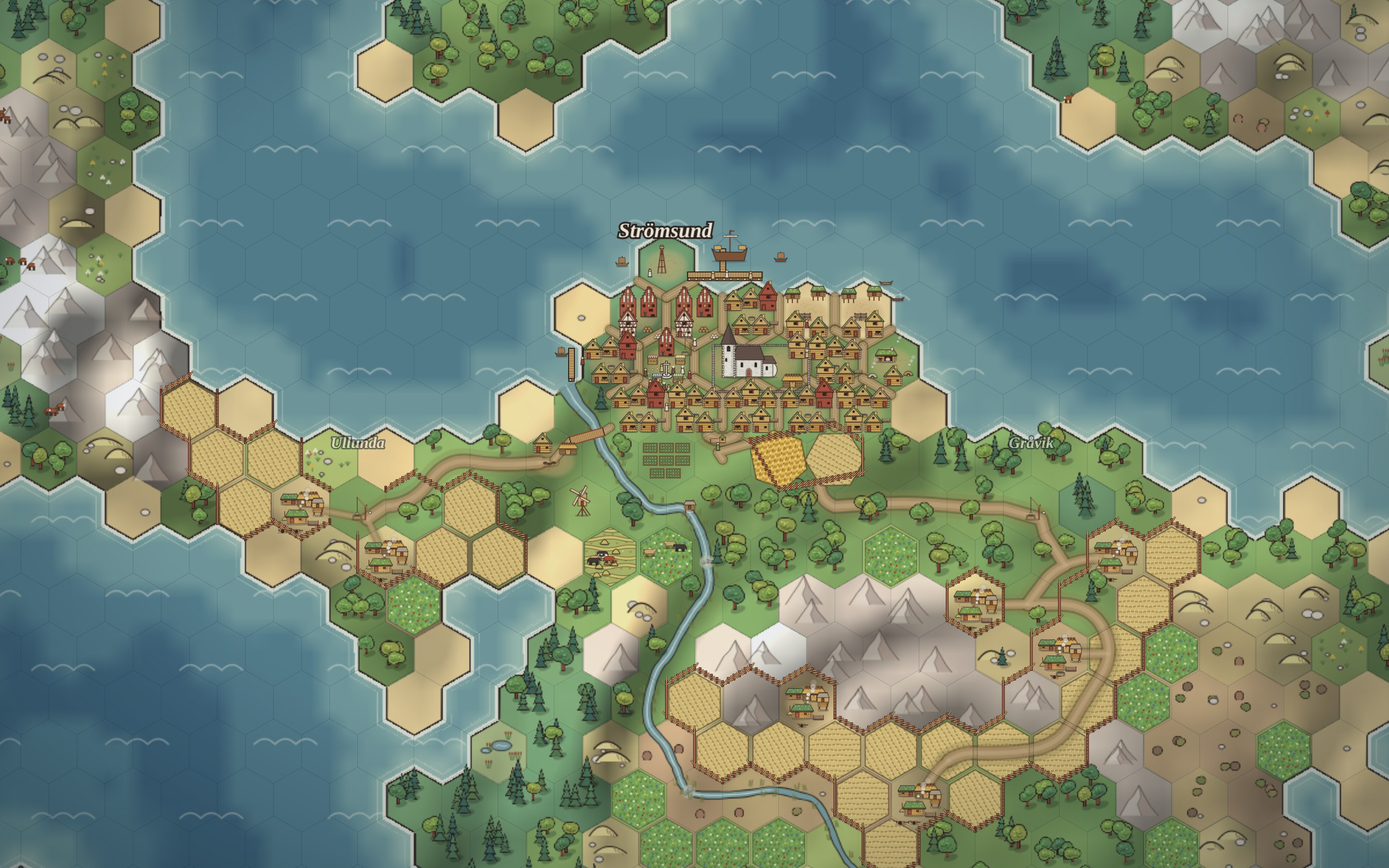
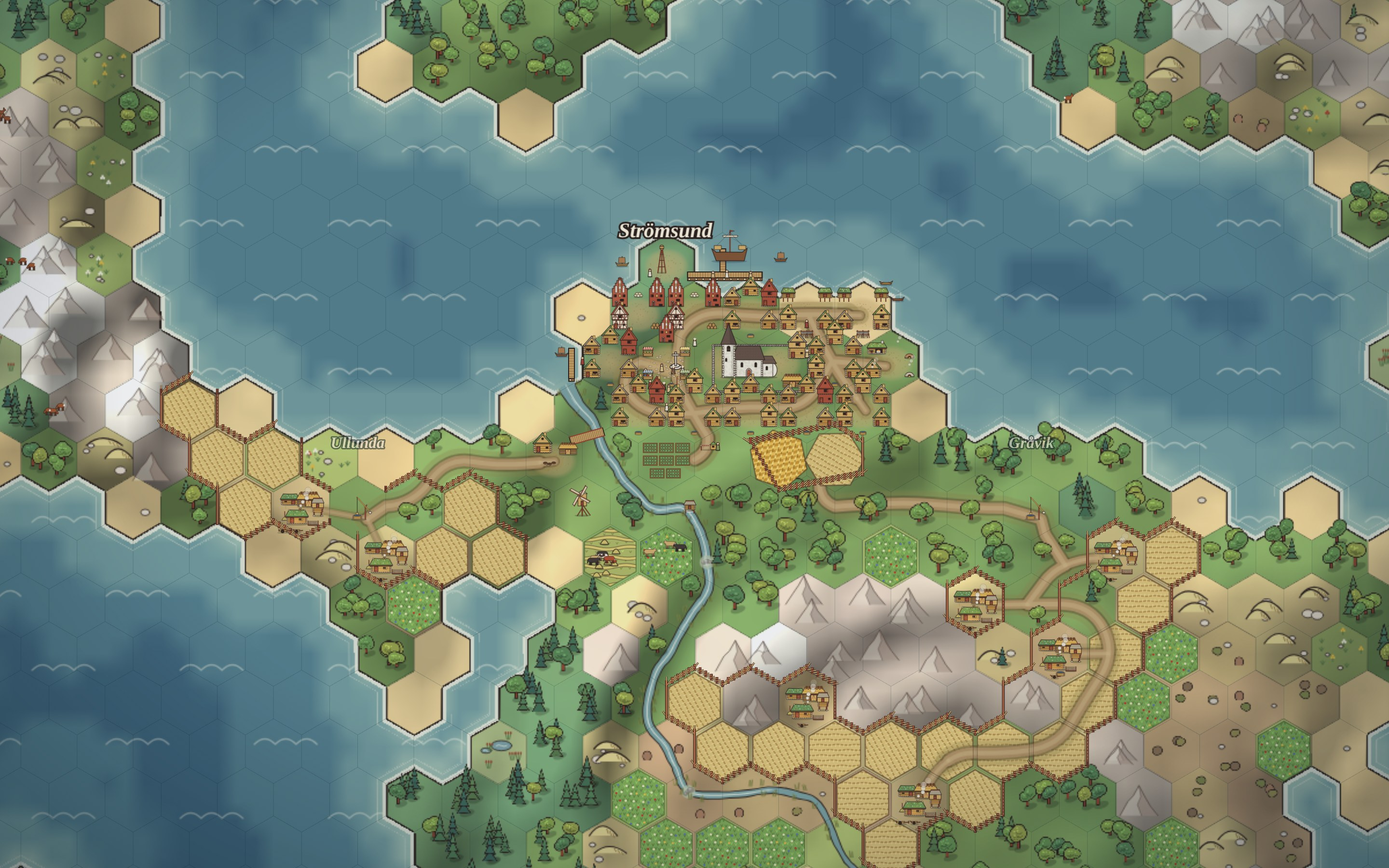
Town mock v2: roads through the hexes as the game's lanes, quarters built round the hex's corners (Kim)
Claude-Session: https://claude.ai/code/session_01UXXp2a22tiiSze6H5Knz7N

Changed region(s): [[0.4062, 0.3111, 0.6562, 0.56]]

diff --git a/docs/mocks/town/plan-hex.js b/docs/mocks/town/plan-hex.js
@@ -1,6 +1,6 @@
 // The town again, each hex a quarter (Kim, 27 November: "houses belong to a hex, similar to a farm but maybe a quarter"): a hex holds
 // a group of buildings round its own trodden yard, as a farm's hex holds its cottage, barn and storehouse; streets run along the edges
-// between quarters; the market is one hex, the church and its yard two. No palisade (there is no violence in the game): the town ends
+// through the hexes, centre to centre, as the game's lanes run in the countryside; the market is one hex, the church and its yard two. No palisade (there is no violence in the game): the town ends
 // where its yard hexes end, with a ring of kitchen-garden hexes on the landward side, the town's fenced fields beyond, and a toll bar
 // where the road comes in. About 60 dwellings, some 350 people. Points are [col, row, dx, dy] as in plan.js.
 const base = require('./plan.js');
@@ -14,36 +14,35 @@ const H = [
 ];
 const house = (c, r, dx, dy, k, extra = {}) => ({ k: 'house', at: [c, r, dx, dy], v: k % 3, o: { ...H[k % H.length], ...extra }, sc: 1.2 });
 const rich = (k) => ({ wall: k % 2 ? 'daub' : 'brick', roof: 'tile', loft: true });
-// A quarter of plots: five town houses round a yard, three behind and two before, a well curb and a woodpile, as a farm's hex holds
-// its buildings; `r1` makes one of them half-timber or brick.
+// A quarter: buildings stand towards the hex's six corners and leave its middle and the ways to its six edges open, so that a road
+// passes through the hex as a lane passes through a farm's country (Kim, 27 November: "roads should work as in the countryside").
+// The corners, as [dx, dy] of a building's foot: top, upper left and right, lower left and right; the bottom corner keeps a well.
+const C = { t: [0, -16], ul: [-16, -7], ur: [16, -7], ll: [-16, 13], lr: [16, 13], b: [0, 21] };
+const at4 = (c, r, k, d = [0, 0]) => [c, r, C[k][0] + d[0], C[k][1] + d[1]];
+// A quarter of plots: five town houses round the hex, a well curb at the bottom corner; `r1` makes one half-timber or brick.
 const plots = (c, r, s, r1 = -1) => [
-  house(c, r, -15, -3, s, s === r1 ? rich(s) : {}),
-  house(c, r, 0, -5, s + 1),
-  house(c, r, 15, -3, s + 2, s + 2 === r1 ? rich(s + 2) : {}),
-  house(c, r, -8, 18, s + 3, s + 3 === r1 ? rich(s + 3) : {}),
-  house(c, r, 9, 18, s + 4),
-  { k: 'art', name: 'curb', at: [c, r, 1, 6], sc: 0.8 },
-  { k: 'art', name: 'wood', v: 2, at: [c, r, 20, 10], sc: 0.8 },
+  ...['t', 'ul', 'ur', 'll', 'lr'].map((k, j) => ({ ...house(c, r, ...C[k], s + j, s + j === r1 ? rich(s + j) : {}), sc: 1.1 })),
+  { k: 'art', name: 'curb', at: at4(c, r, 'b'), sc: 0.8 },
 ];
 const merchants = (c, r, s) => [
-  { k: 'merchant', at: [c, r, -9, 2], v: s, sc: 1.1 },
-  { k: 'merchant', at: [c, r, 9, 2], v: s + 1, sc: 1.1 },
-  house(c, r, -9, 20, s + 2, rich(s + 1)),
-  { k: 'barrels', at: [c, r, 9, 16], v: 5 },
-  { k: 'sacks', at: [c, r, 17, 22] },
+  { k: 'merchant', at: at4(c, r, 'ul'), v: s, sc: 1.05 },
+  { k: 'merchant', at: at4(c, r, 'ur'), v: s + 1, sc: 1.05 },
+  { ...house(c, r, ...C.ll, s + 2, rich(s + 1)), sc: 1.1 },
+  { k: 'barrels', at: at4(c, r, 'lr'), v: 5 },
+  { k: 'sacks', at: at4(c, r, 't', [0, 2]) },
 ];
 const fishers = (c, r, s) => [
-  { k: 'sjobod', at: [c, r, -12, -10], v: s, sc: 1.1 },
-  { k: 'sjobod', at: [c, r, 10, -12], v: s + 1, sc: 1.1 },
-  { k: 'rack', at: [c, r, -2, 6] },
-  house(c, r, -10, 20, s),
-  house(c, r, 10, 20, s + 4),
+  { k: 'sjobod', at: at4(c, r, 'ul', [0, -4]), v: s, sc: 1.05 },
+  { k: 'sjobod', at: at4(c, r, 'ur', [0, -4]), v: s + 1, sc: 1.05 },
+  { k: 'rack', at: at4(c, r, 'b') },
+  { ...house(c, r, ...C.ll, s), sc: 1.1 },
+  { ...house(c, r, ...C.lr, s + 4), sc: 1.1 },
 ];
 const crafts = (c, r) => [
-  { k: 'smithy', at: [c, r, -4, 0], sc: 1.1 },
-  { k: 'kiln', at: [c, r, 15, 12], v: 0 },
-  { k: 'kiln', at: [c, r, -16, 14], v: 1 },
-  house(c, r, 2, 20, 0),
+  { k: 'smithy', at: at4(c, r, 'ul', [4, 0]), sc: 1 },
+  { k: 'kiln', at: at4(c, r, 'ur', [0, 4]), v: 0 },
+  { k: 'kiln', at: at4(c, r, 'lr'), v: 1 },
+  { ...house(c, r, ...C.ll, 0), sc: 1.1 },
 ];
 
 const QUARTERS = [
@@ -77,14 +76,9 @@ for (const q of QUARTERS) {
 }
 things.push(
   // the market: booths round the cross, the town hall (rådstuga) of brick at its back, the well sweep
-  ...[
-    [-12, 2],
-    [12, 2],
-    [-8, 18],
-    [10, 18],
-  ].map(([x, y], k) => ({ k: 'booth', at: [22, 12, x, y], v: k })),
-  { k: 'merchant', at: [22, 12, 0, -6], v: 1, sc: 1.05 },
-  { k: 'art', name: 'sweep', at: [22, 12, 18, -6], sc: 0.75, ay: 0.95 },
+  ...['ul', 'ur', 'll', 'lr'].map((k, j) => ({ k: 'booth', at: at4(22, 12, k, [0, 2]), v: j })),
+  { k: 'merchant', at: at4(22, 12, 't', [0, -2]), v: 1, sc: 1 },
+  { k: 'art', name: 'sweep', at: at4(22, 12, 'b', [6, 0]), sc: 0.7, ay: 0.95 },
   // the church across its two hexes, the priest's house and the tithe barn
   { k: 'church', at: [23, 12, 22, 12], sc: 1.15 },
   house(24, 12, 16, -4, 2, { loft: true, roof: 'shingle' }),
@@ -105,7 +99,7 @@ things.push(
   { k: 'watermill', at: [22, 15, -4, 4] },
   { k: 'postmill', at: [20, 15, 0, 6], sc: 1.1 },
   // the toll bar where the road from the south comes in
-  { k: 'toll', at: [23, 14, -4, -14] },
+  { k: 'toll', at: [23, 14, -12, -8] },
 );
 const people = [
   [22, 12, -4, 8], [6, 10], [-2, 24], [14, 10], [-18, 12], [2, 26], [20, 14], [-14, 22],
@@ -123,23 +117,24 @@ module.exports = {
     town: [...QUARTERS.map((q) => q.at), [20, 14], [26, 13]],
     outside: [[22, 14], [23, 14], [24, 14], [25, 14], [20, 15], [22, 16], [21, 16]],
   },
+  // the ways, as the game draws its lanes (w.worn 3, centre to centre through the hexes): in from the south past the toll, through
+  // the market (an open place, like a village green) to the quay; along the shore to the fishermen; east to the crafts; west to the bridge
+  greens: [[22, 12]],
   roads: [
-    [[23, 14], [24, 15], [25, 15], [26, 15], [27, 15]],
-    [[20, 14], [19, 14], [18, 14], [17, 15]],
+    [[23, 14, 40], [24, 15], [25, 15], [26, 15], [27, 15]],
+    [[20, 14, 30], [19, 14], [18, 14], [17, 15]],
+    [[22, 13, 50], [22, 11, 50], [23, 11, 40], [24, 11, 30], [25, 11, 20]],
+    [[21, 13, 30], [23, 13, 40], [24, 13, 30], [25, 13, 30], [26, 12, 20], [25, 12, 20], [21, 12, 30]],
   ],
-  quarters: { hexes: [...QUARTERS, { at: [20, 14], yard: 0.6 }].map((q) => ({ at: q.at, group: q.group })), street: 7 },
+  quarters: { hexes: [...QUARTERS, { at: [20, 14], yard: 0.6 }].map((q) => ({ at: q.at, group: q.group })), edges: false },
   fields: [
     { at: [24, 14], look: 'ripe', rot: -0.2 },
     { at: [25, 14], look: 'stubble', rot: 0.5 },
   ],
   meadows: base.meadows,
   ground: [],
-  cobbles: [{ at: [22, 12, 0, 10], rx: 18, ry: 12 }],
-  streets: [
-    { pts: [[23, 13, 0, 28], [23, 14, -4, -6], [23, 14, 0, 0]], w: 7 }, // the road in from the south, past the toll
-    { pts: [[21, 13, -24, 14], [21, 13, -30, 18]], w: 6 }, // to the bridge
-    { pts: [[20, 14, 14, -16], [20, 14, 0, 0]], w: 6 },
-  ],
+  cobbles: [{ at: [22, 12, 0, 4], rx: 16, ry: 11 }],
+  streets: [],
   // the kitchen-garden hexes on the landward side (kålgårdar): the town's soft edge
   gardens: [
     ...[[22, 14]].flatMap(([c, r], j) =>
@@ -160,7 +155,7 @@ module.exports = {
   ],
   palisade: [],
   things,
-  crosses: [[22, 12, 0, 12]],
+  crosses: [[22, 12, 8, 4]],
   people,
   cows: base.cows,
   smoke: [[26, 12, 6, -18], [26, 12, 16, 2], [26, 12, -16, 4]],

diff --git a/docs/mocks/town/town.js b/docs/mocks/town/town.js
@@ -68,7 +68,8 @@ function seedTown(w, seed, P) {
   VB['sim/scenarios'].startStreams(st, seed);
   VB['sim/carts'].seedCarts(st, true);
   if (!P.labels) for (const k of Object.keys(P.tiles || {})) for (const cr of P.tiles[k]) if (!w.water[T(cr)]) w.dev[T(cr)] = Math.max(w.dev[T(cr)], 1);
-  if (!P.labels) for (const road of P.roads || []) for (const cr of road) { const t = T(cr); if (!w.water[t]) { w.worn[t] = 3; if (w.crossing) w.crossing[t] = 99; } }
+  if (!P.labels) for (const road of P.roads || []) for (const cr of road) { const t = T(cr); if (!w.water[t]) { w.worn[t] = 3; if (w.wear) w.wear[t] = Math.max(w.wear[t], cr[2] || 20); } }
+  if (!P.labels) for (const cr of P.greens || []) w.dev[T(cr)] = 2; // an open place the ways cross (draw/paths), as a village green
   return st;
 }
 

diff --git a/docs/mocks/town/art.js b/docs/mocks/town/art.js
@@ -1368,7 +1368,7 @@ function tmHexes(w, H) {
       segs.push(p);
     });
   }
-  for (const p of segs) tmWay(p, H.street || 7);
+  if (H.edges !== false) for (const p of segs) tmWay(p, H.street || 7);
 }
 function townLabels() {
   const w = st.w;

diff --git a/docs/mocks/town/README.md b/docs/mocks/town/README.md
@@ -21,5 +21,5 @@ river on the north shore, drawn in the farm art's manner (`src/page/farmart.js`)
 | `img/desk-town.jpg` | the whole town at the closest zoom |
 | `img/desk-surroundings.jpg` | the town with its fields, mills, commons and the two villages it serves |
 | `img/island.jpg` | the island |
-| `img/desk-hex-town.jpg`, `img/desk-hex-surroundings.jpg` | v2 (`plan-hex.js`, Kim 27 Nov): a quarter of houses per hex like a farm, streets along hex edges, no palisade; garden hex, fields and a toll bar mark the edge |
+| `img/desk-hex-town.jpg`, `img/desk-hex-surroundings.jpg` | v2 (`plan-hex.js`, Kim 27 Nov): a quarter of houses per hex like a farm, roads through the hexes as the game's lanes run (Kim 27 Nov), no palisade; garden hex, fields and a toll bar mark the edge |
 | `img/phone-*.jpg` | the same on a phone |
